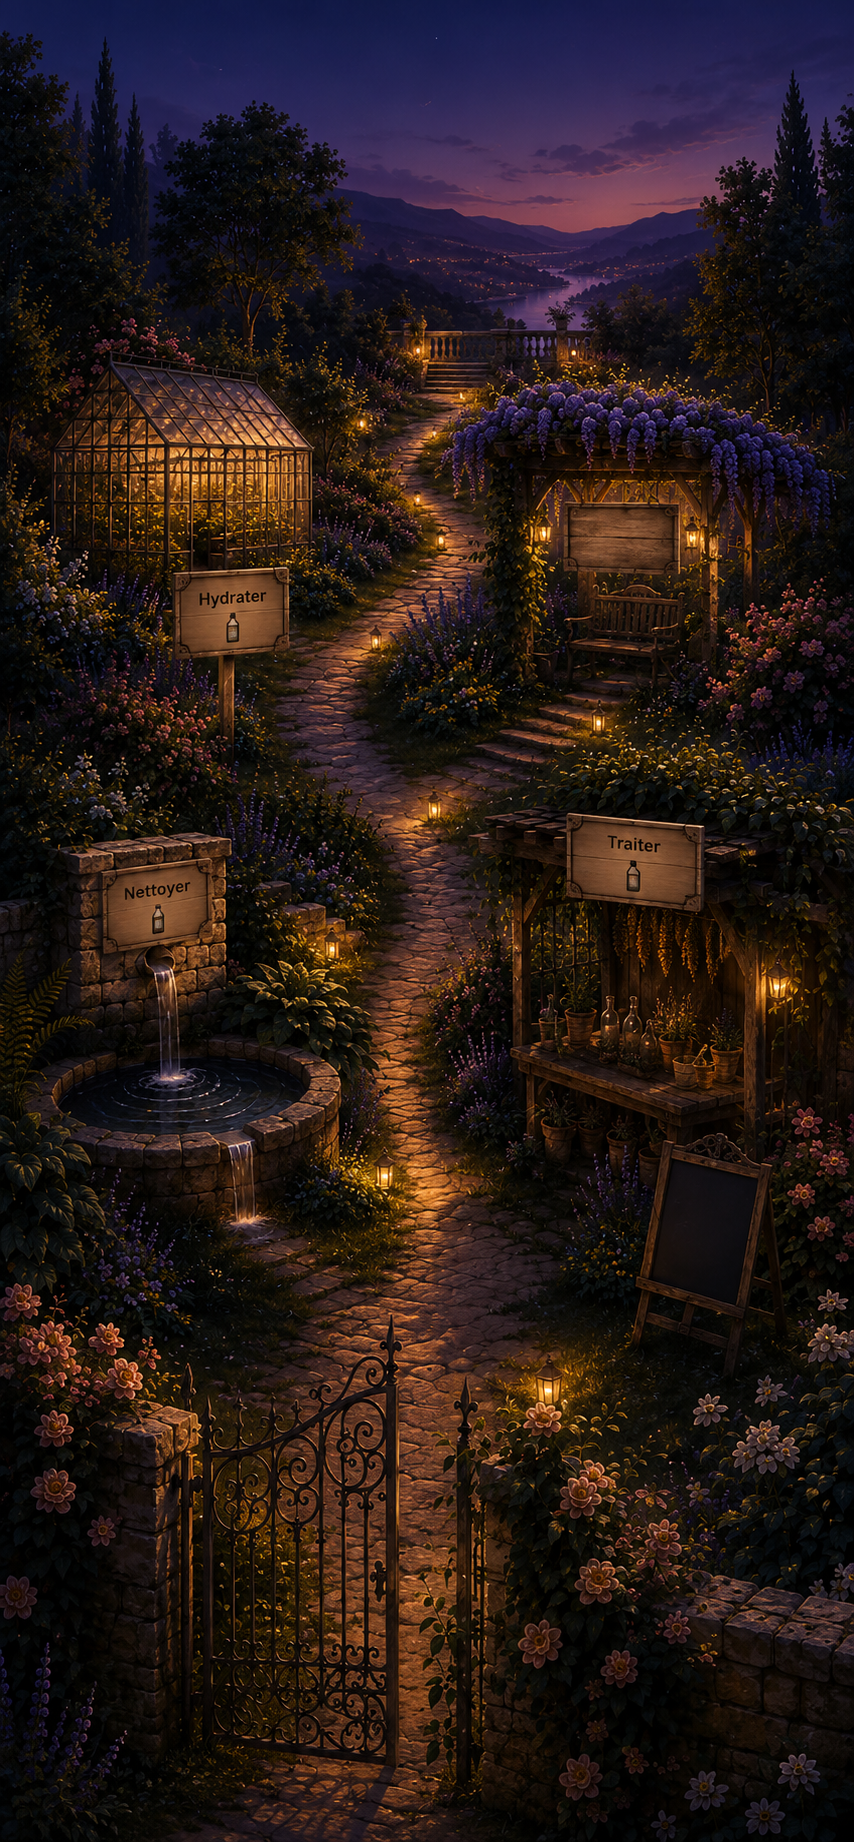
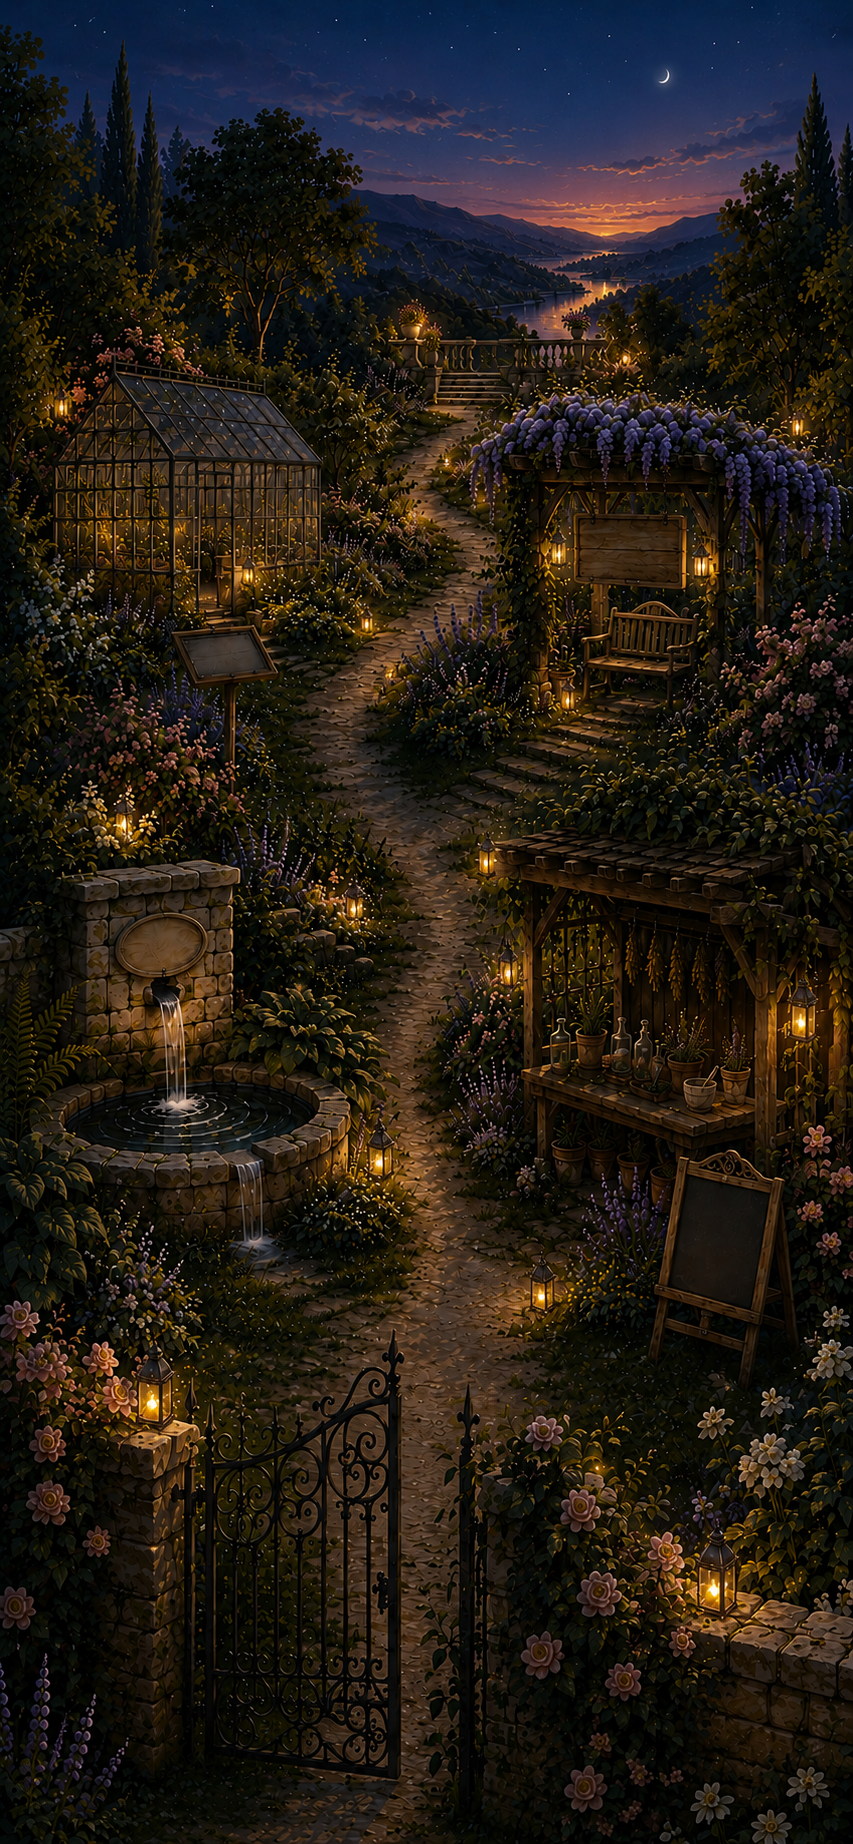
Soir: image aux enseignes vides + calage aligne sur le matin (nettoyer, traiter, hydrater)

diff --git a/index.html b/index.html
@@ -6049,11 +6049,11 @@
       proteger:{x:72, y:37, h:12.87, r:1.60, cx:72,   cy:31.5, pw:16, ph:5.5, rot:0},   // 4 → enseigne suspendue de la pergola
       arrivee :{x:52, y:22, h:3.17,  r:1.60}
     }},
-    soir:{ img:'img/jardin-soir.jpg', w:854, h:1842, top:20, panels:true, pos:{
-      // Même jardin de nuit. 3 étapes (nettoyer, traiter, hydrater). Panneaux sur les enseignes.
-      nettoyer:{x:19, y:62, h:13, r:1.40, cx:19, cy:49,   pw:17.5, ph:5,   rot:0},   // 1 → enseigne au-dessus de la fontaine
-      traiter :{x:75, y:60, h:14, r:1.40, cx:75, cy:46,   pw:16.5, ph:5,   rot:0},   // 2 → enseigne suspendue de l'apothicaire
-      hydrater:{x:26, y:37, h:12, r:1.50, cx:25, cy:33.5, pw:13.5, ph:4.5, rot:0}    // 3 → panonceau près de la verrière
+    soir:{ img:'img/jardin-soir.jpg', w:853, h:1844, top:22, panels:true, pos:{
+      // Même jardin (de nuit) que le matin, enseignes vides → mêmes supports, même calage.
+      nettoyer:{x:20, y:64, h:13.85, r:1.50, cx:17.5, cy:40, pw:18, ph:7,  rot:0},   // 1 → plaque ovale de la fontaine
+      traiter :{x:73, y:65, h:18.31, r:1.40, cx:80,   cy:72, pw:14, ph:8,  rot:-3},  // 2 → ardoise de l'apothicaire
+      hydrater:{x:30, y:35, h:11.97, r:1.50, cx:27,   cy:37.5, pw:12, ph:5, rot:0}   // 3 → panonceau près de la verrière
     }},
     hebdo:{ img:'img/clairiere.jpg', w:760, h:1140, top:27.41, pos:{
       nettoyer:{x:14.57, y:58.57, h:13.29, r:1.15},
